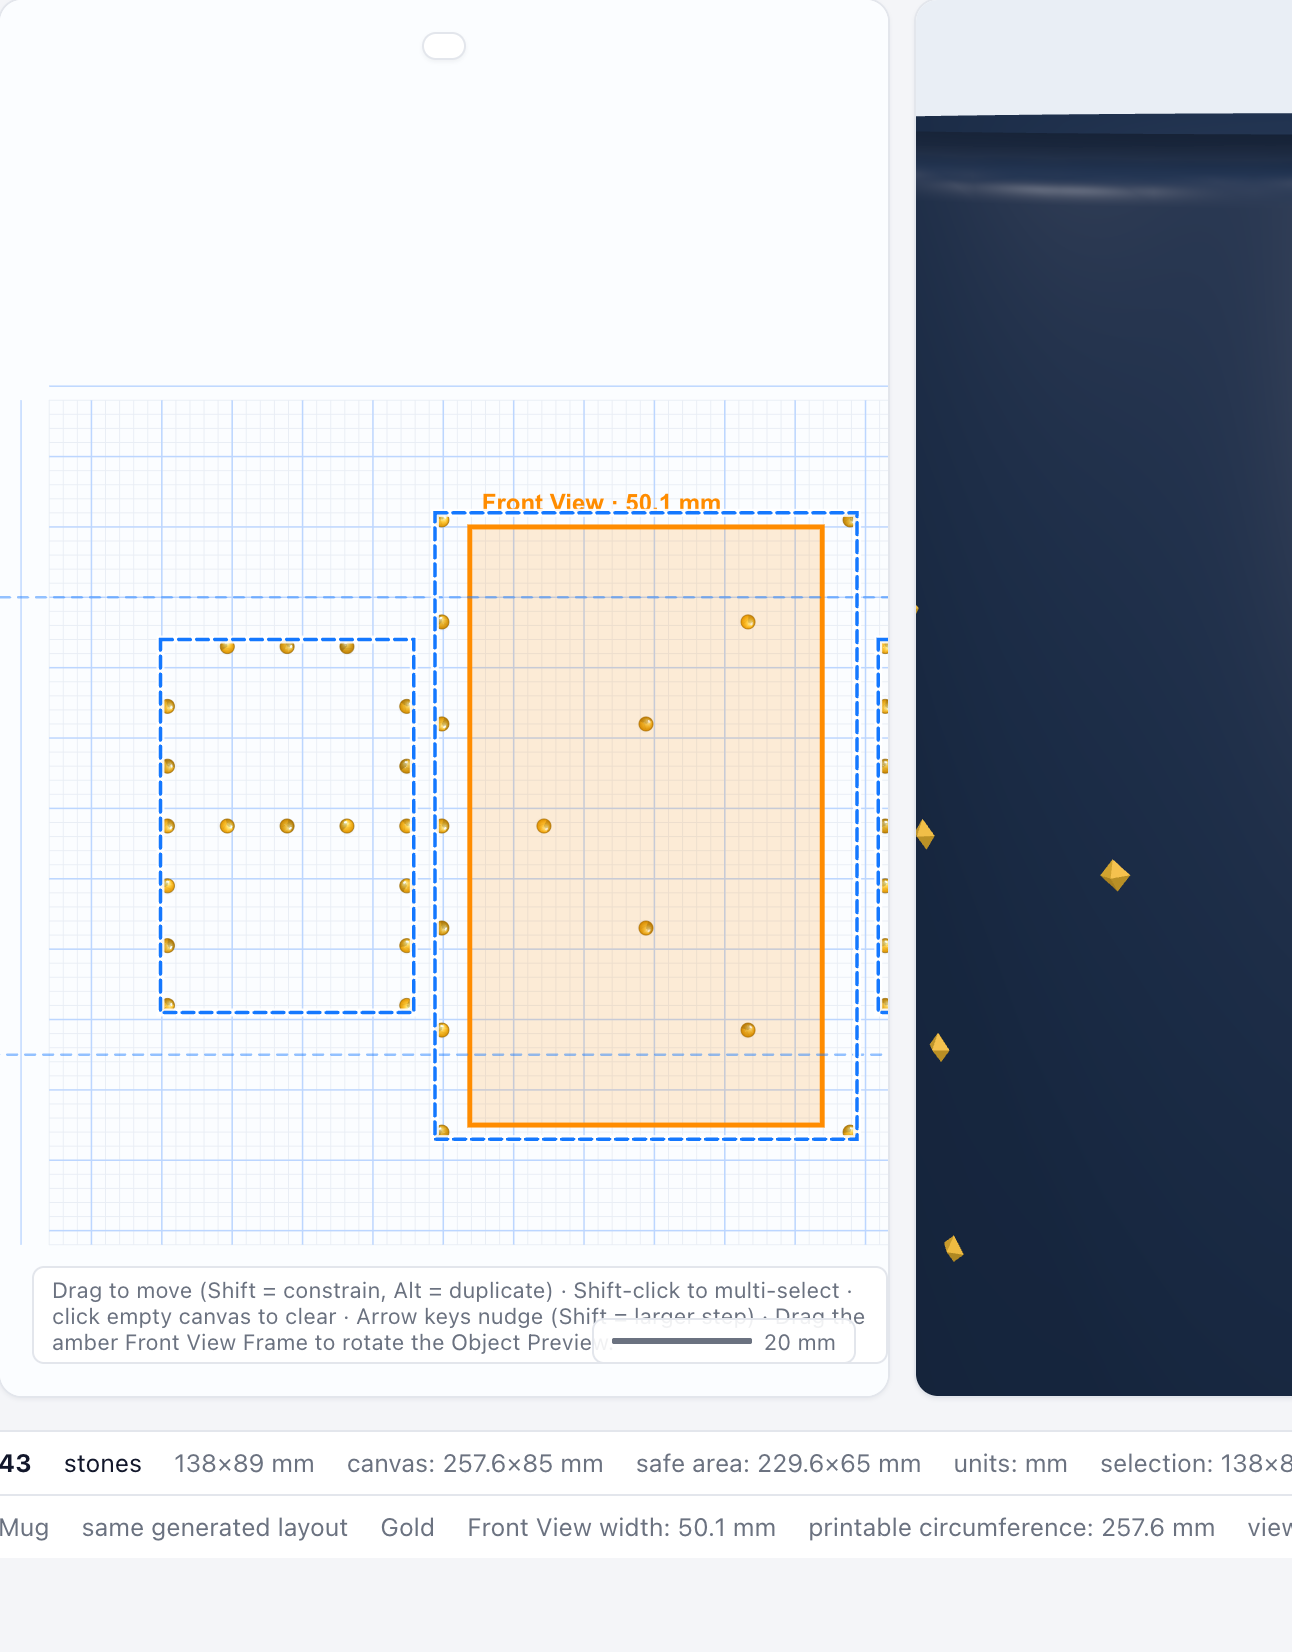
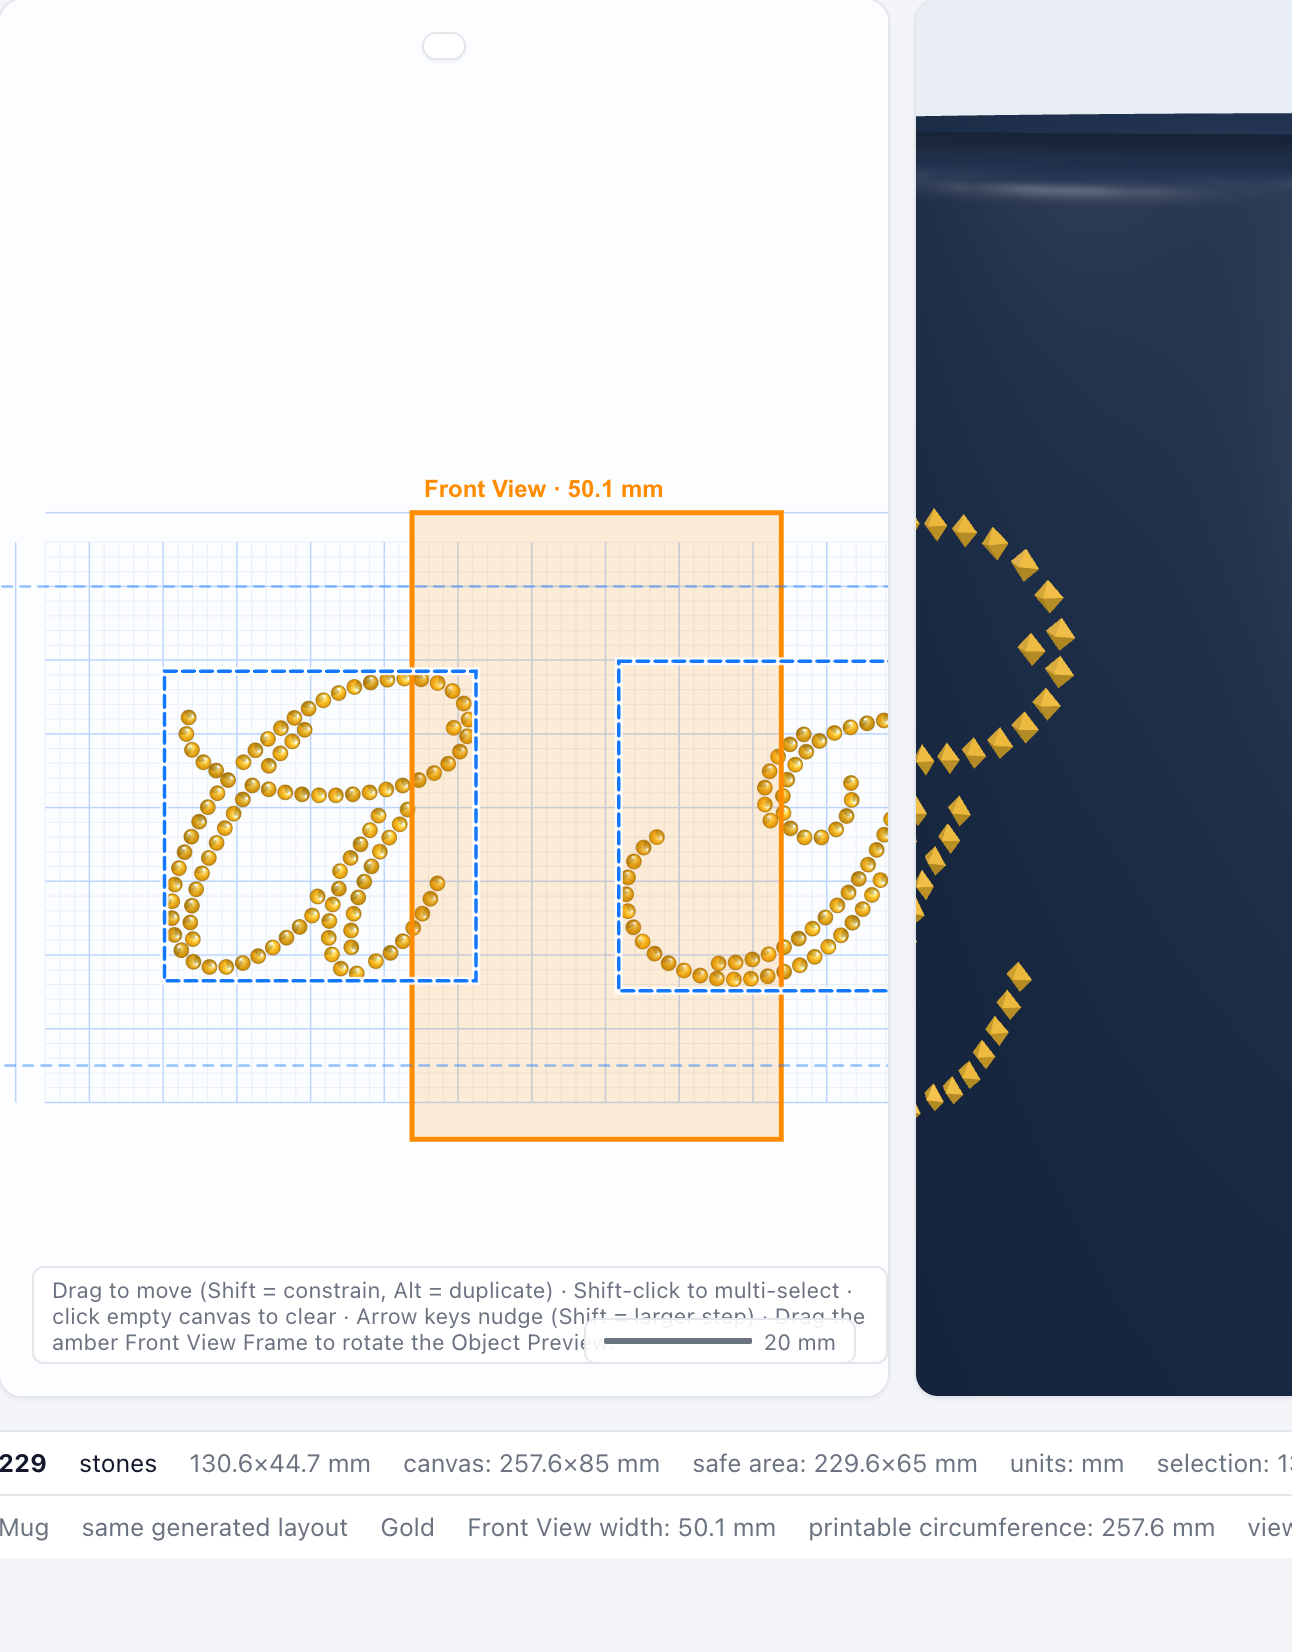
MONO-016 follow-up: test 7 disclosure + OpenType-slot screenshots + spec reachability
Corrections to 2f59c4c (which stays as-is).

test-mono-016 test 7: the per-letter slot CHAIN_TOO_THIN-via-spacing case
now prints the actual request object it runs (letters A,B, frameRect
100x100, not just the test name), and prints both results with
result.ok / result.reason / achieved stemStones. It also probes the
largest reachable frame (none 150x150) and prints that it never crosses
the boundary at any legal spacing -- reported, not engineered around.
The straddle (letterSpacingMm 0 -> ok stem 0.726; 9 -> CHAIN_TOO_THIN
stem 0.687) is on a ~100mm none frame, which COMMON_SCALING_LIMITS_MM
(20-150mm) permits.

Screenshots slot-natural.png / slot-wide.png reshot as
Great Vibes / two-letter / none 150x150 / SS6, letterSpacingMm 0 and
+4.6 -- the OpenType script path MONO-016 actually changed for slot
layouts (229 stones each; string bbox 130.6 -> 135.2 mm). The first
commit used authored RS Block, whose gap behaviour was never in question.

MONO-016 spec gains section 5a: measured table of which slot layouts an
OpenType script font can reach within the 150mm cap -- two-letter is
reachable at the larger frames, the three-letter slot layouts are not
(the gap MONO-013's script layout fills). Test 7's spec bullet corrected
to match.

MONO-013 goldens unchanged (372/369 stones, 136.501458/131.901458 mm);
regression fixtures unchanged (147/66/441).

diff --git a/docs/specifications/MONO-016-LetterSpacing.md b/docs/specifications/MONO-016-LetterSpacing.md
@@ -149,19 +149,53 @@ monogram generation commits its own single undo step.
    for script — the asymmetry in one test.
 6. Over-wide spacing: `computeMonogramLayout()` → `INSUFFICIENT_SPACE`; the generator → `FITTING_FAILED`
    naming the spacing.
-7. Both `CHAIN_TOO_THIN` paths name letter spacing as a remedy (the slot per-letter message reached
-   by spacing that turns a passing Great Vibes `two-letter` mark into a failure; the interlocked-string
-   message at SS10).
+7. Both `CHAIN_TOO_THIN` paths name letter spacing as a remedy. The slot per-letter message
+   (`MonogramGenerator.js` ~L788) is reached on Great Vibes / `two-letter` / `none` at a ~100 mm
+   frame, letters `A,B`, SS6: `letterSpacingMm` 0 passes (stem 0.726), `letterSpacingMm` 9 fails
+   (`CHAIN_TOO_THIN`, stem 0.687) — spacing is the deciding input. The test also probes
+   `none` 150×150 and prints that it never crosses the boundary at any legal spacing (stem stays
+   0.850) rather than moving the frame to manufacture a transition there. The interlocked-string
+   message is reached on `script` at SS10.
 8. Control bounds and visibility (app.js helpers sliced and executed against a fake DOM): script
    `min` negative, slot `min` 0, both `max` = `TRACKING_XPITCH_LADDER` top rung ×
    `monogramLetterSpacingPitchMm()`; hidden for `single` / one-letter script; the slider re-clamps a
    now-illegal negative value to 0 when the layout switches script → slot.
 
-Every test input is reachable through the UI — the `none` frame's 150 mm cap
-(`COMMON_SCALING_LIMITS_MM`) is respected.
+Every test input is reachable through the UI — the `none` frame's `COMMON_SCALING_LIMITS_MM`
+(20–150 mm, both axes) is respected.
 
 `src/monogram/**` may import `src/renderer/**` — MONO-015's boundary assertion covers
 `src/geometry/**` only.
+
+---
+
+## 5a. OpenType script fonts in slot layouts
+
+An authored (stone-centre) font places stones on a fixed grid and works in every layout. An
+**OpenType script font** must form a single readable chain across each stroke, and a slot layout
+shrinks the letter to fill a per-slot rectangle — so whether it clears the `CHAIN_TOO_THIN` gate
+depends on the layout and the frame. Measured on `develop` @ `910e3c8` with the real generator:
+Great Vibes (`stemWidthRatio` 0.0357), frame `none`, SS6, `letterSpacingMm` 0, letters `A,K` for
+`two-letter` and `A,K,L` for the three-letter layouts:
+
+| layout | 150×150 | 150×100 | 120×120 | 100×70 |
+|---|---|---|---|---|
+| `two-letter` | **OK** | **OK** | chain-too-thin | chain-too-thin |
+| `traditional-three` | chain-too-thin | chain-too-thin | chain-too-thin | chain-too-thin |
+| `equal-three` | chain-too-thin | chain-too-thin | chain-too-thin | chain-too-thin |
+
+So: the **three-letter** slot layouts (`traditional-three`, `equal-three`) are unreachable for an
+OpenType script font at every frame size within the 150 mm cap — this is exactly the gap MONO-013's
+`script` layout exists to fill. **`two-letter` is reachable** at the larger frames (≈ 150 mm wide).
+Positive letter spacing narrows the slots further, so on a marginal `two-letter` frame (≈ 100 mm)
+it can push a passing mark into `CHAIN_TOO_THIN` — that is test 7's per-letter path, and the reason
+its `CHAIN_TOO_THIN` message now lists "less letter spacing".
+
+The `docs/screenshots/mono-016/slot-natural.png` / `slot-wide.png` pair is therefore
+**Great Vibes / `two-letter` / `none` 150×150 / SS6**, `letterSpacingMm` 0 and +4.6 (229 stones
+each; string bbox 130.6 → 135.2 mm, the +4.6 mm being one inter-slot gap widened by `extraGapMm`) —
+the OpenType script path MONO-016 actually changed for slot layouts, not an authored font whose
+behaviour was never in question.
 
 ---
 
